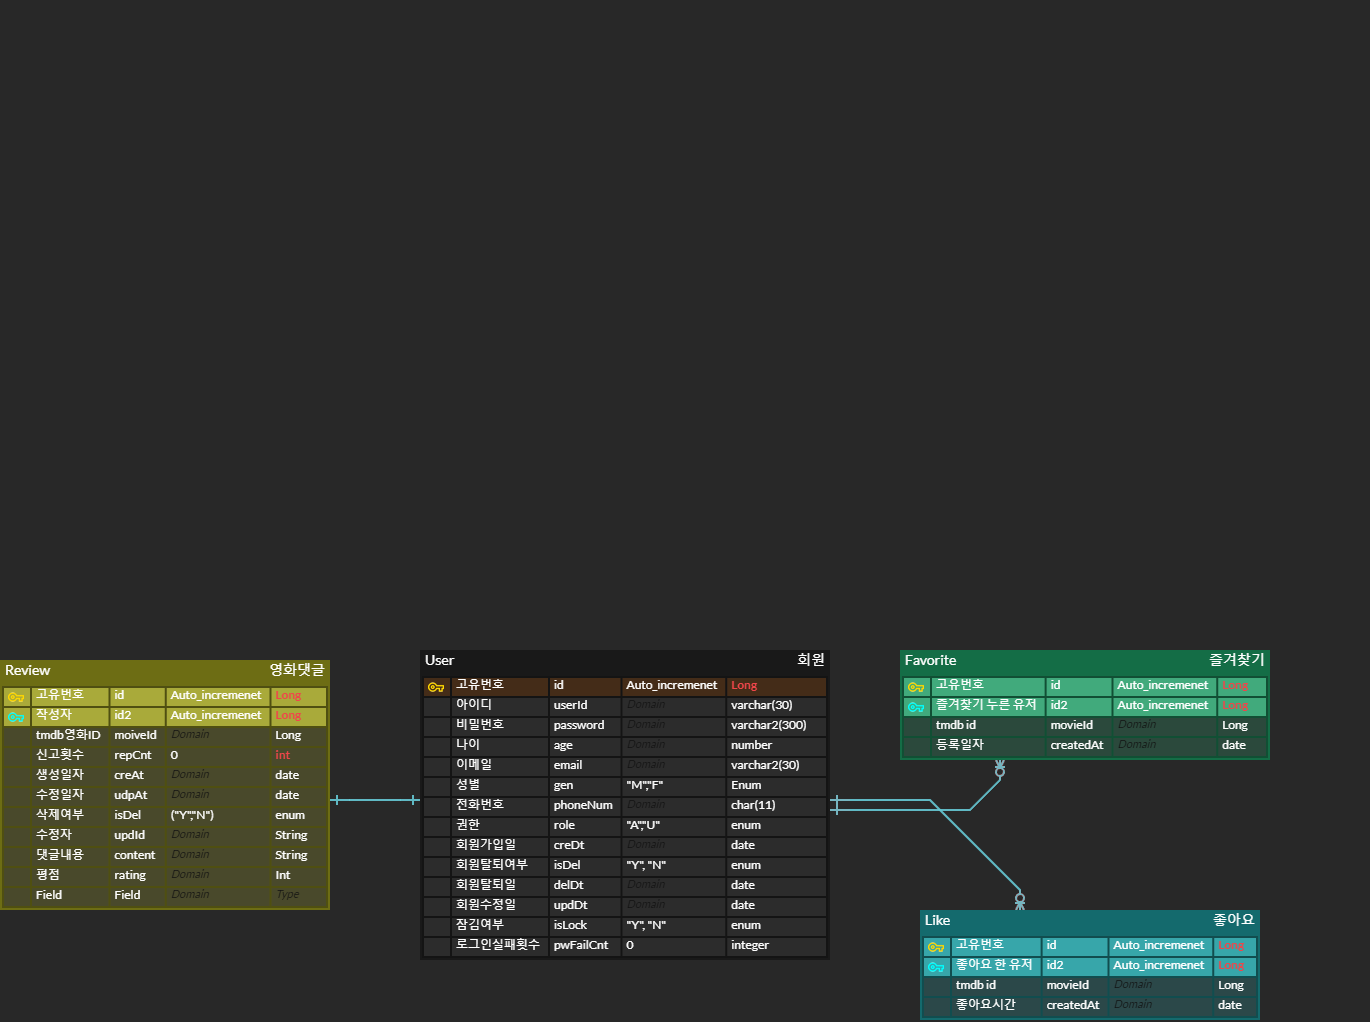
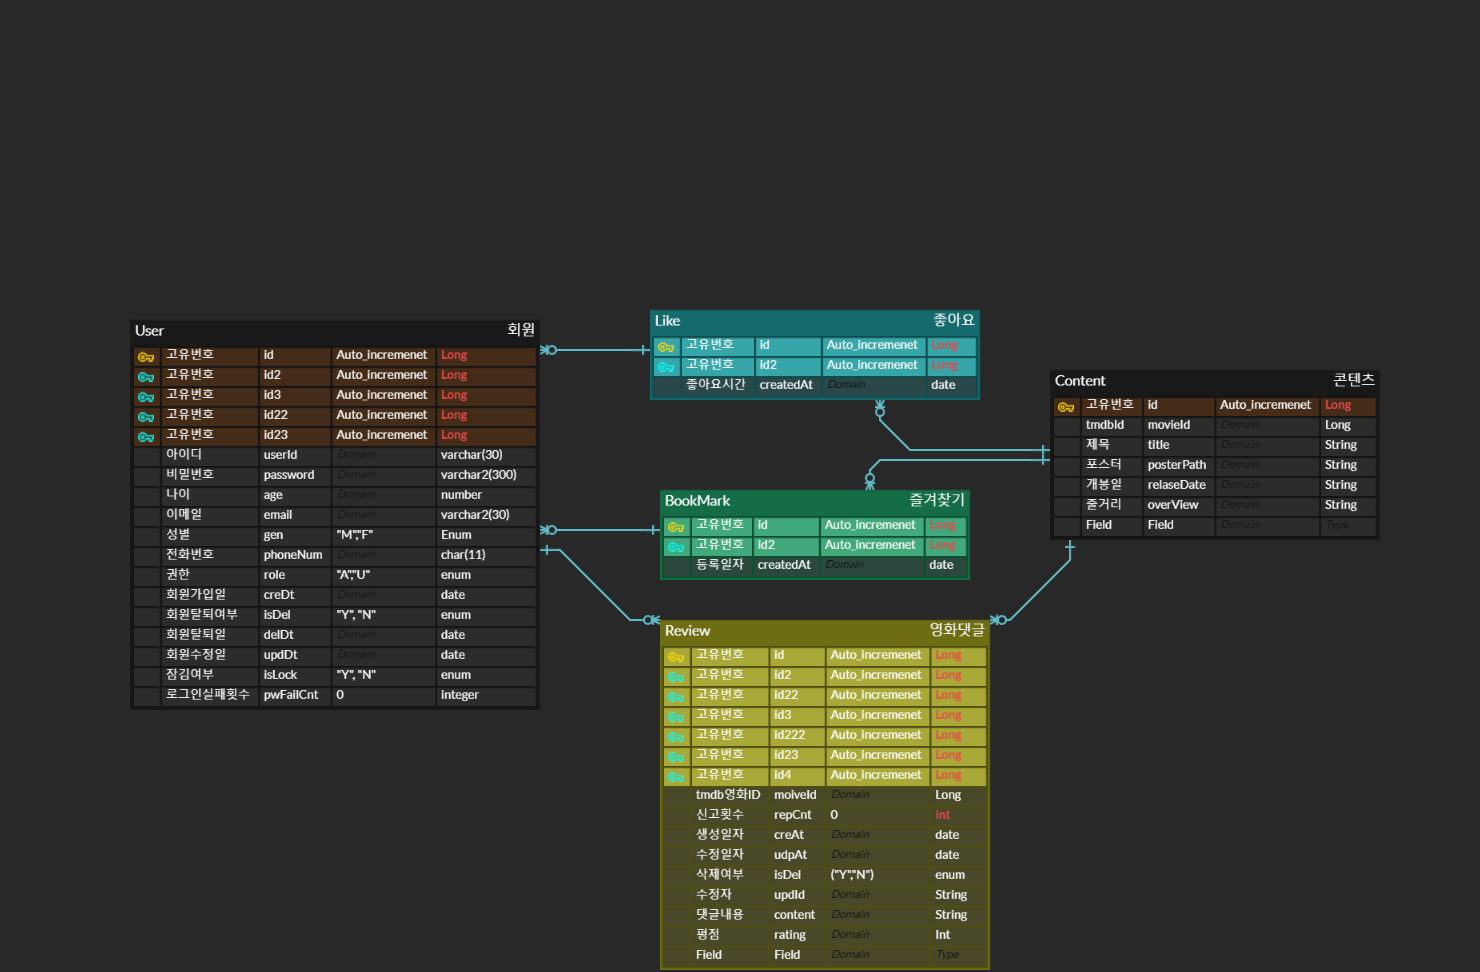
Review,Video 엔터티작성+ERD이미지 업데이트

diff --git a/src/main/java/com/sim/video/domain/review/Review.java b/src/main/java/com/sim/video/domain/review/Review.java
@@ -1,0 +1,85 @@
+package com.sim.video.domain.review;
+
+import com.sim.video.domain.common.BaseEntity;
+import com.sim.video.domain.content.Video;
+import com.sim.video.domain.user.User;
+import jakarta.persistence.*;
+import jakarta.validation.constraints.*;
+import lombok.*;
+
+import java.math.BigDecimal;
+
+// 유저 1명당 1영화(드라마) 1개 리뷰
+@Entity
+@Table(name="review", uniqueConstraints = { //user_id+movie_id가 동시에 같은 값이 행이 존재하면 db에러를 발생시킴
+        @UniqueConstraint(columnNames = {"user_id","video_id"}) //즉 유저는 하나의 영화에 대해 하나의 리뷰만 작성 가능
+})
+@Getter
+@NoArgsConstructor(access = AccessLevel.PROTECTED)  //외부에서 new Review() 사용불가,빌더만 사용가능, JPA내부에서만 사용
+@AllArgsConstructor
+public class Review extends BaseEntity {
+
+    @Id
+    @GeneratedValue(strategy = GenerationType.IDENTITY)
+    private Long idx;
+
+    //리뷰 작성자
+    @ManyToOne(fetch = FetchType.LAZY,optional = false)// 객체 로딩을 지연시키면 연관된 객체까지 즉시 모두 로딩됨
+    @JoinColumn(name="user_id",nullable = false)
+    private User user;
+
+    //대상 영화
+    @ManyToOne(fetch = FetchType.LAZY,optional = false)
+    @JoinColumn(name = "video_id", nullable = false)
+    private Video video;
+
+    //별점(1~10), 소수점 2자리 까지
+    @Column(nullable = false, precision = 3, scale = 2)
+    @DecimalMin(value = "1.00", message = "최소 평점은 1.00 이상입니다.") //소수점 2자리까지 정밀도 보장
+    @DecimalMax(value = "10.00", message = "최대 평점은 10.00 이하입니다.")
+    private BigDecimal rating;
+
+
+    //리뷰 내용
+    @NotBlank(message = "리뷰 내용을 입력해주세요.")
+    @Column(nullable = false,length = 300)
+    private String content;
+
+    //신고 횟수
+    @Column(nullable = false)
+    private int reportCount;
+
+    //삭제 여부
+    @Column(nullable = false)
+    private boolean deleted;
+
+    // 수정자 ID (선택)
+    @Column(length = 100)
+    private String modifiedBy;
+
+    //빌더 설정
+    @Builder
+    public Review(User user,Video video,BigDecimal rating,String content){
+        this.user=user;
+        this.video=video;
+        this.rating=rating;
+        this.content=content;
+        this.reportCount=0;
+        this.deleted=false;
+    }
+    //신고 증가
+    public void report(){
+        this.reportCount++;
+    }
+    // 수정
+    public void edit(String newContent, BigDecimal newRating, String modifierId) {
+        this.content = newContent;
+        this.rating = newRating;
+        this.modifiedBy = modifierId;
+    }
+    
+    //소프트 삭제
+    public void softDelete() {
+        this.deleted = true;
+    }
+}

diff --git a/src/main/java/com/sim/video/domain/user/User.java b/src/main/java/com/sim/video/domain/user/User.java
@@ -2,6 +2,7 @@ package com.sim.video.domain.user;
 
 import com.sim.video.domain.common.BaseEntity;
 import jakarta.persistence.*;
+import jakarta.validation.constraints.Email;
 import lombok.AccessLevel;
 import lombok.Builder;
 import lombok.Getter;
@@ -19,10 +20,10 @@ public class User extends BaseEntity {
     @GeneratedValue(strategy = GenerationType.IDENTITY)
     private Long idx;
 
-    @Column(nullable = false,unique = true,length = 30)
+    @Column(nullable = false,unique = true,length = 20)
     private String userId;
 
-    @Column(nullable = false,length = 300)
+    @Column(nullable = false,length = 50)
     private String password;
 
     @Enumerated(EnumType.STRING)
@@ -31,17 +32,18 @@ public class User extends BaseEntity {
 
     @Enumerated(EnumType.STRING)
     @Column(nullable = false,length = 1)
-    private Yn isDel=Yn.N;
+    private Yn isDel;
 
     @Enumerated(EnumType.STRING)
     @Column(nullable = false,length = 1)
-    private Yn isLock=Yn.N;
+    private Yn isLock;
 
     @Column
-    private int pwFailCnt=0;
+    private int pwFailCnt;
 
     private Integer age;
 
+    @Email
     @Column(length = 30)
     private String email;
 
@@ -61,6 +63,9 @@ public class User extends BaseEntity {
         this.email = email;
         this.gen = gen;
         this.phoneNum = phoneNum;
+        this.isDel = Yn.N;
+        this.isLock = Yn.N;
+        this.pwFailCnt = 0;
     }
     //비밀번호 변경 도메인 메서드(setter막기)
     public void changePassword(String encodedPassword){

diff --git a/src/main/java/com/sim/video/domain/content/Video.java b/src/main/java/com/sim/video/domain/content/Video.java
@@ -1,0 +1,47 @@
+package com.sim.video.domain.content;
+
+// TMDB API 기반 영화/드라마 정보 저장
+// 좋아요, 즐겨찾기, 리뷰와 연관
+// 영화/TV 타입 구분
+
+import jakarta.persistence.*;
+
+import java.time.LocalDate;
+
+@Entity
+@Table(name="video",uniqueConstraints = {
+        @UniqueConstraint(columnNames = "tmdbId")
+})
+public class Video {
+    @Id
+    @GeneratedValue(strategy = GenerationType.IDENTITY)
+    private Long idx;
+
+    //tmdb의 고유 id
+    @Column(nullable = false)
+    private Long tmdbId;
+
+    //제목
+    @Column(nullable = false, length = 255)
+    private String title;
+
+    // 포스터
+    @Column(length = 500)
+    private String posterPath;
+
+    //줄거리
+    @Column(columnDefinition = "TEXT")
+    private String overview;
+
+    // tmdb 영화/드라마 개봉일자
+    @Column
+    private LocalDate releaseDate; //tmdb api의 release_date가 yyyy-mm-dd타입
+
+    @Enumerated(EnumType.STRING)
+    @Column(nullable = false,length = 10)
+    private VideoType type;
+
+    public enum VideoType{
+        MOVIE,TV
+    }
+}

diff --git a/src/main/java/com/sim/video/dto/RegisterRequestDto.java b/src/main/java/com/sim/video/dto/RegisterRequestDto.java
@@ -19,7 +19,7 @@ public record RegisterRequestDto (
 
     Integer age,
 
-    @Pattern(regexp = "^\\d{3}-\\d{4}-\\d{4}$", message = "010-0000-0000 형식이어야 합니다")
+    @Pattern(regexp = "^(01[016789]|02|0[3-9][0-9])-?[0-9]{3,4}-?[0-9]{4}$", message = "010-0000-0000 형식이어야 합니다")
     String phoneNum,
 
     @NotNull

diff --git a/src/main/java/com/sim/video/domain/bookmark/BookMark.java b/src/main/java/com/sim/video/domain/bookmark/BookMark.java
@@ -1,0 +1,4 @@
+package com.sim.video.domain.bookmark;
+
+public class BookMark {
+}

diff --git a/src/main/java/com/sim/video/domain/like/Like.java b/src/main/java/com/sim/video/domain/like/Like.java
@@ -1,0 +1,4 @@
+package com.sim.video.domain.like;
+
+public class Like {
+}
